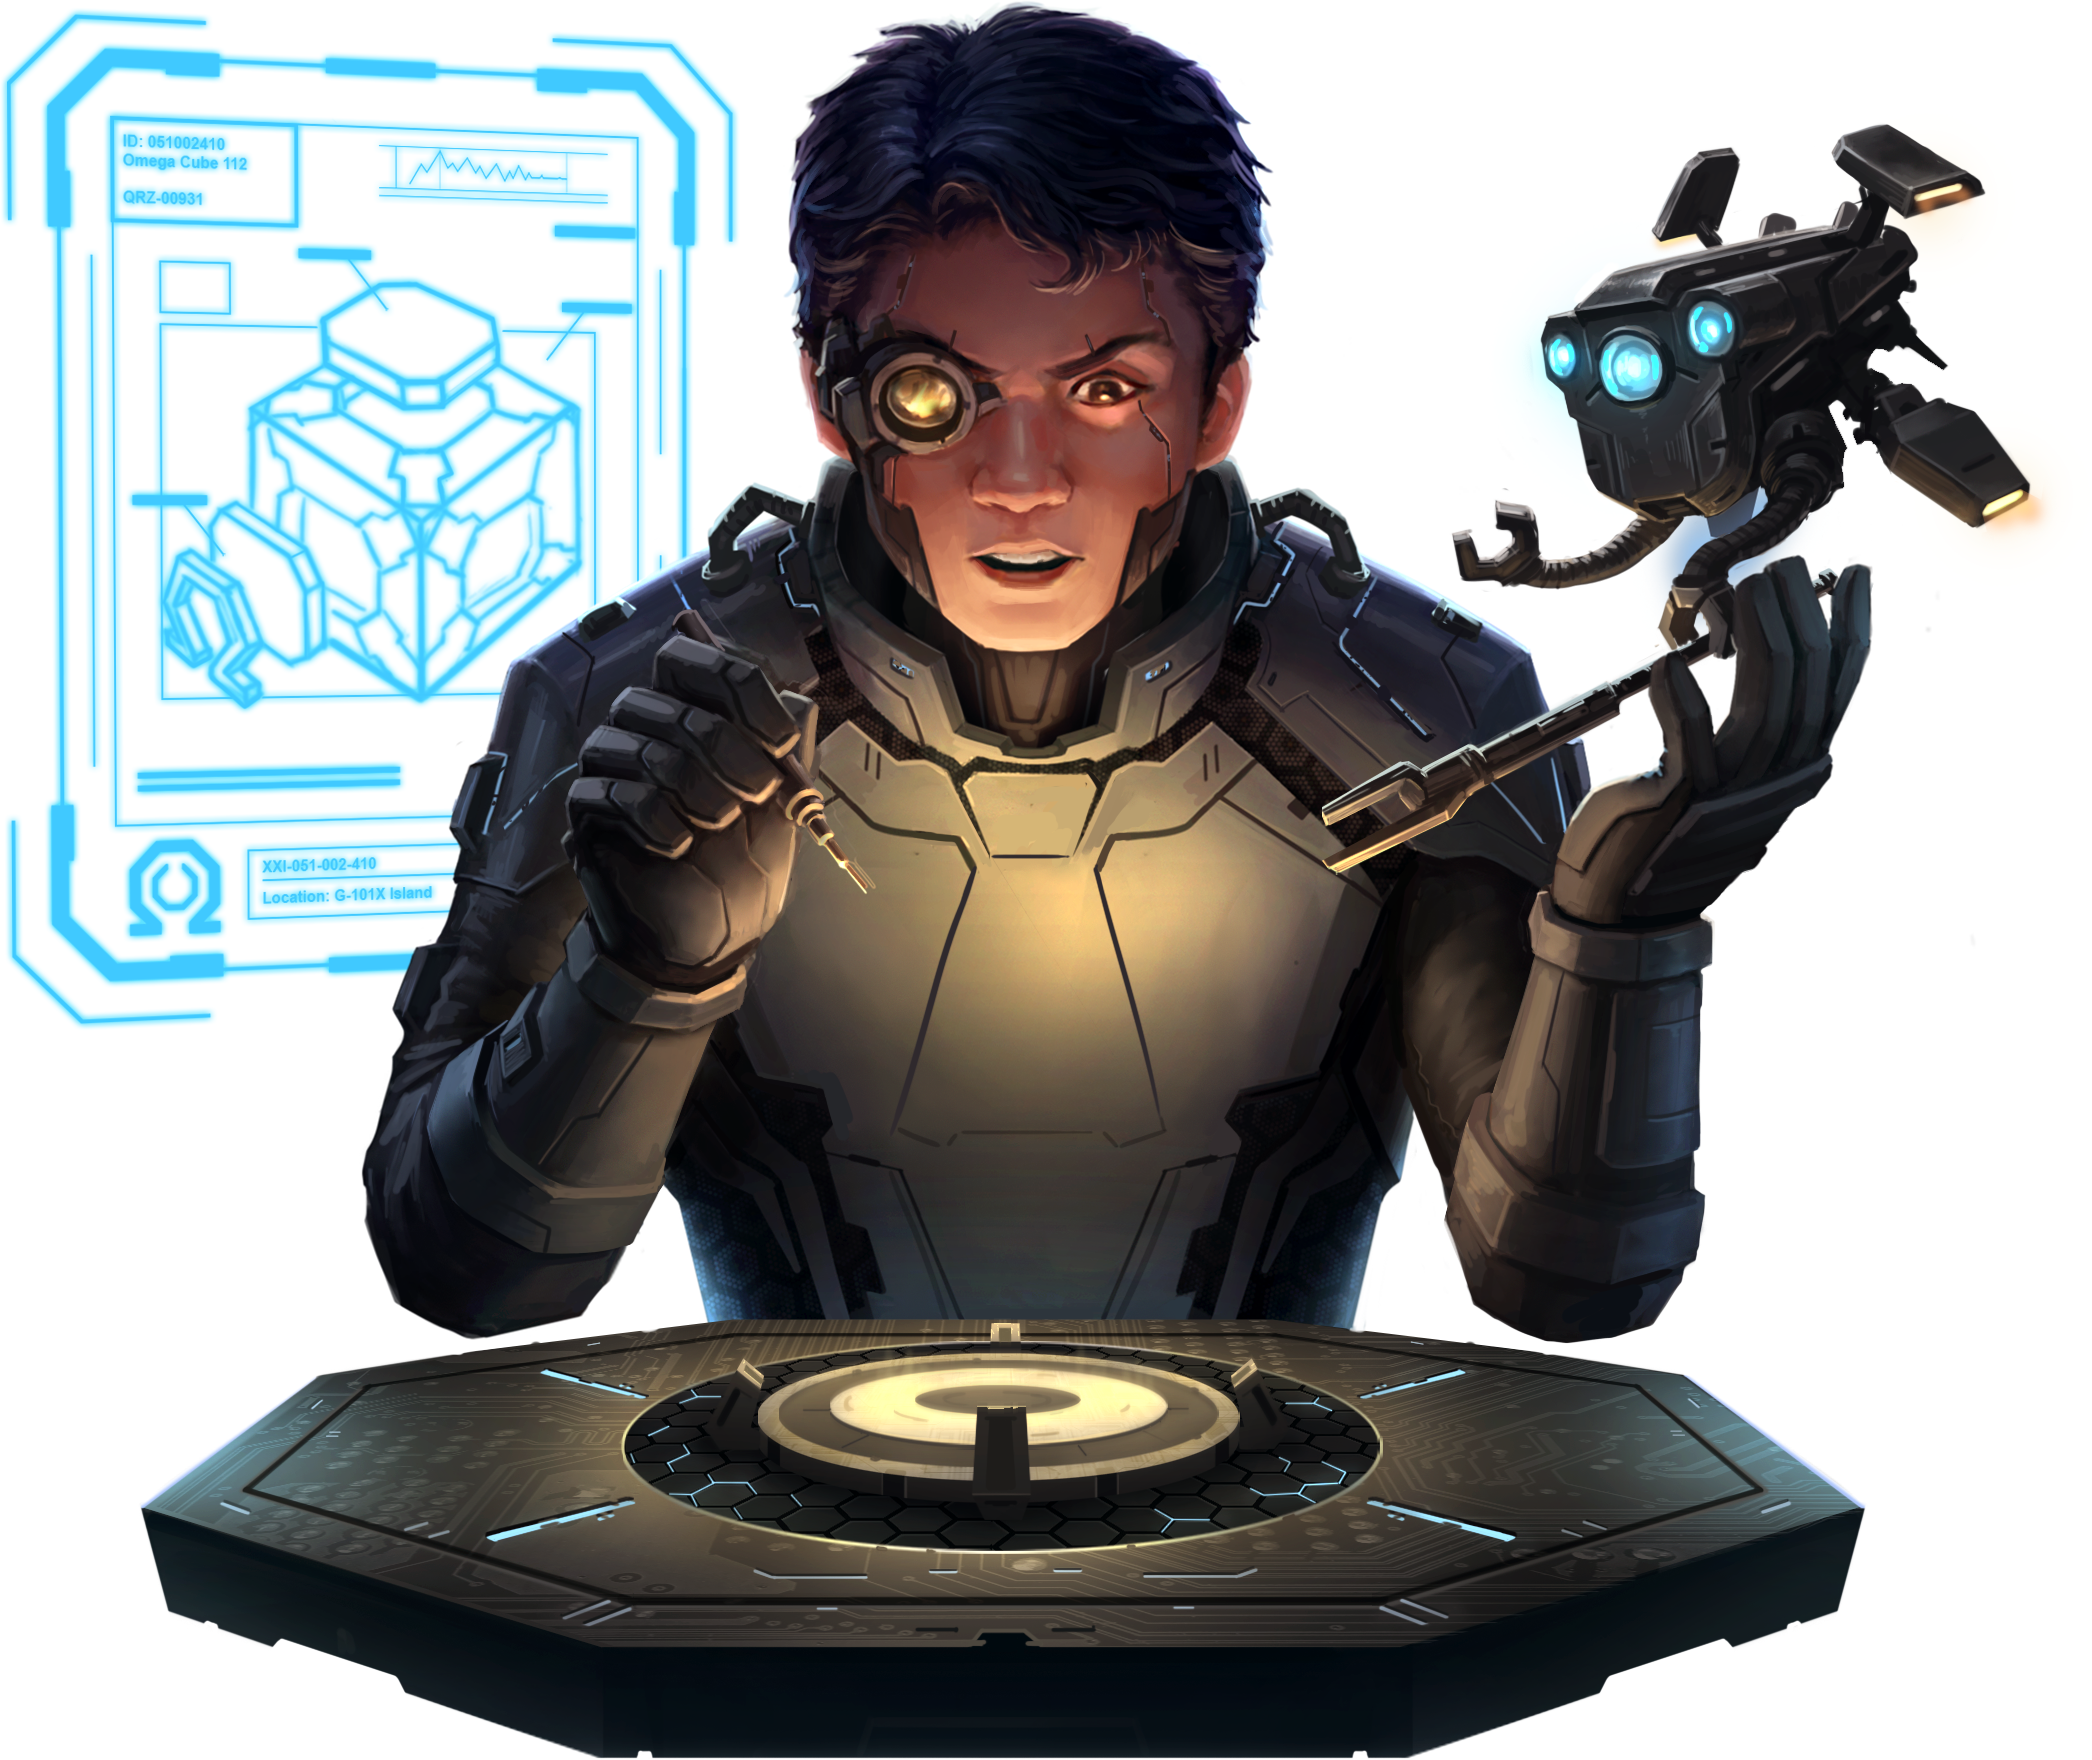
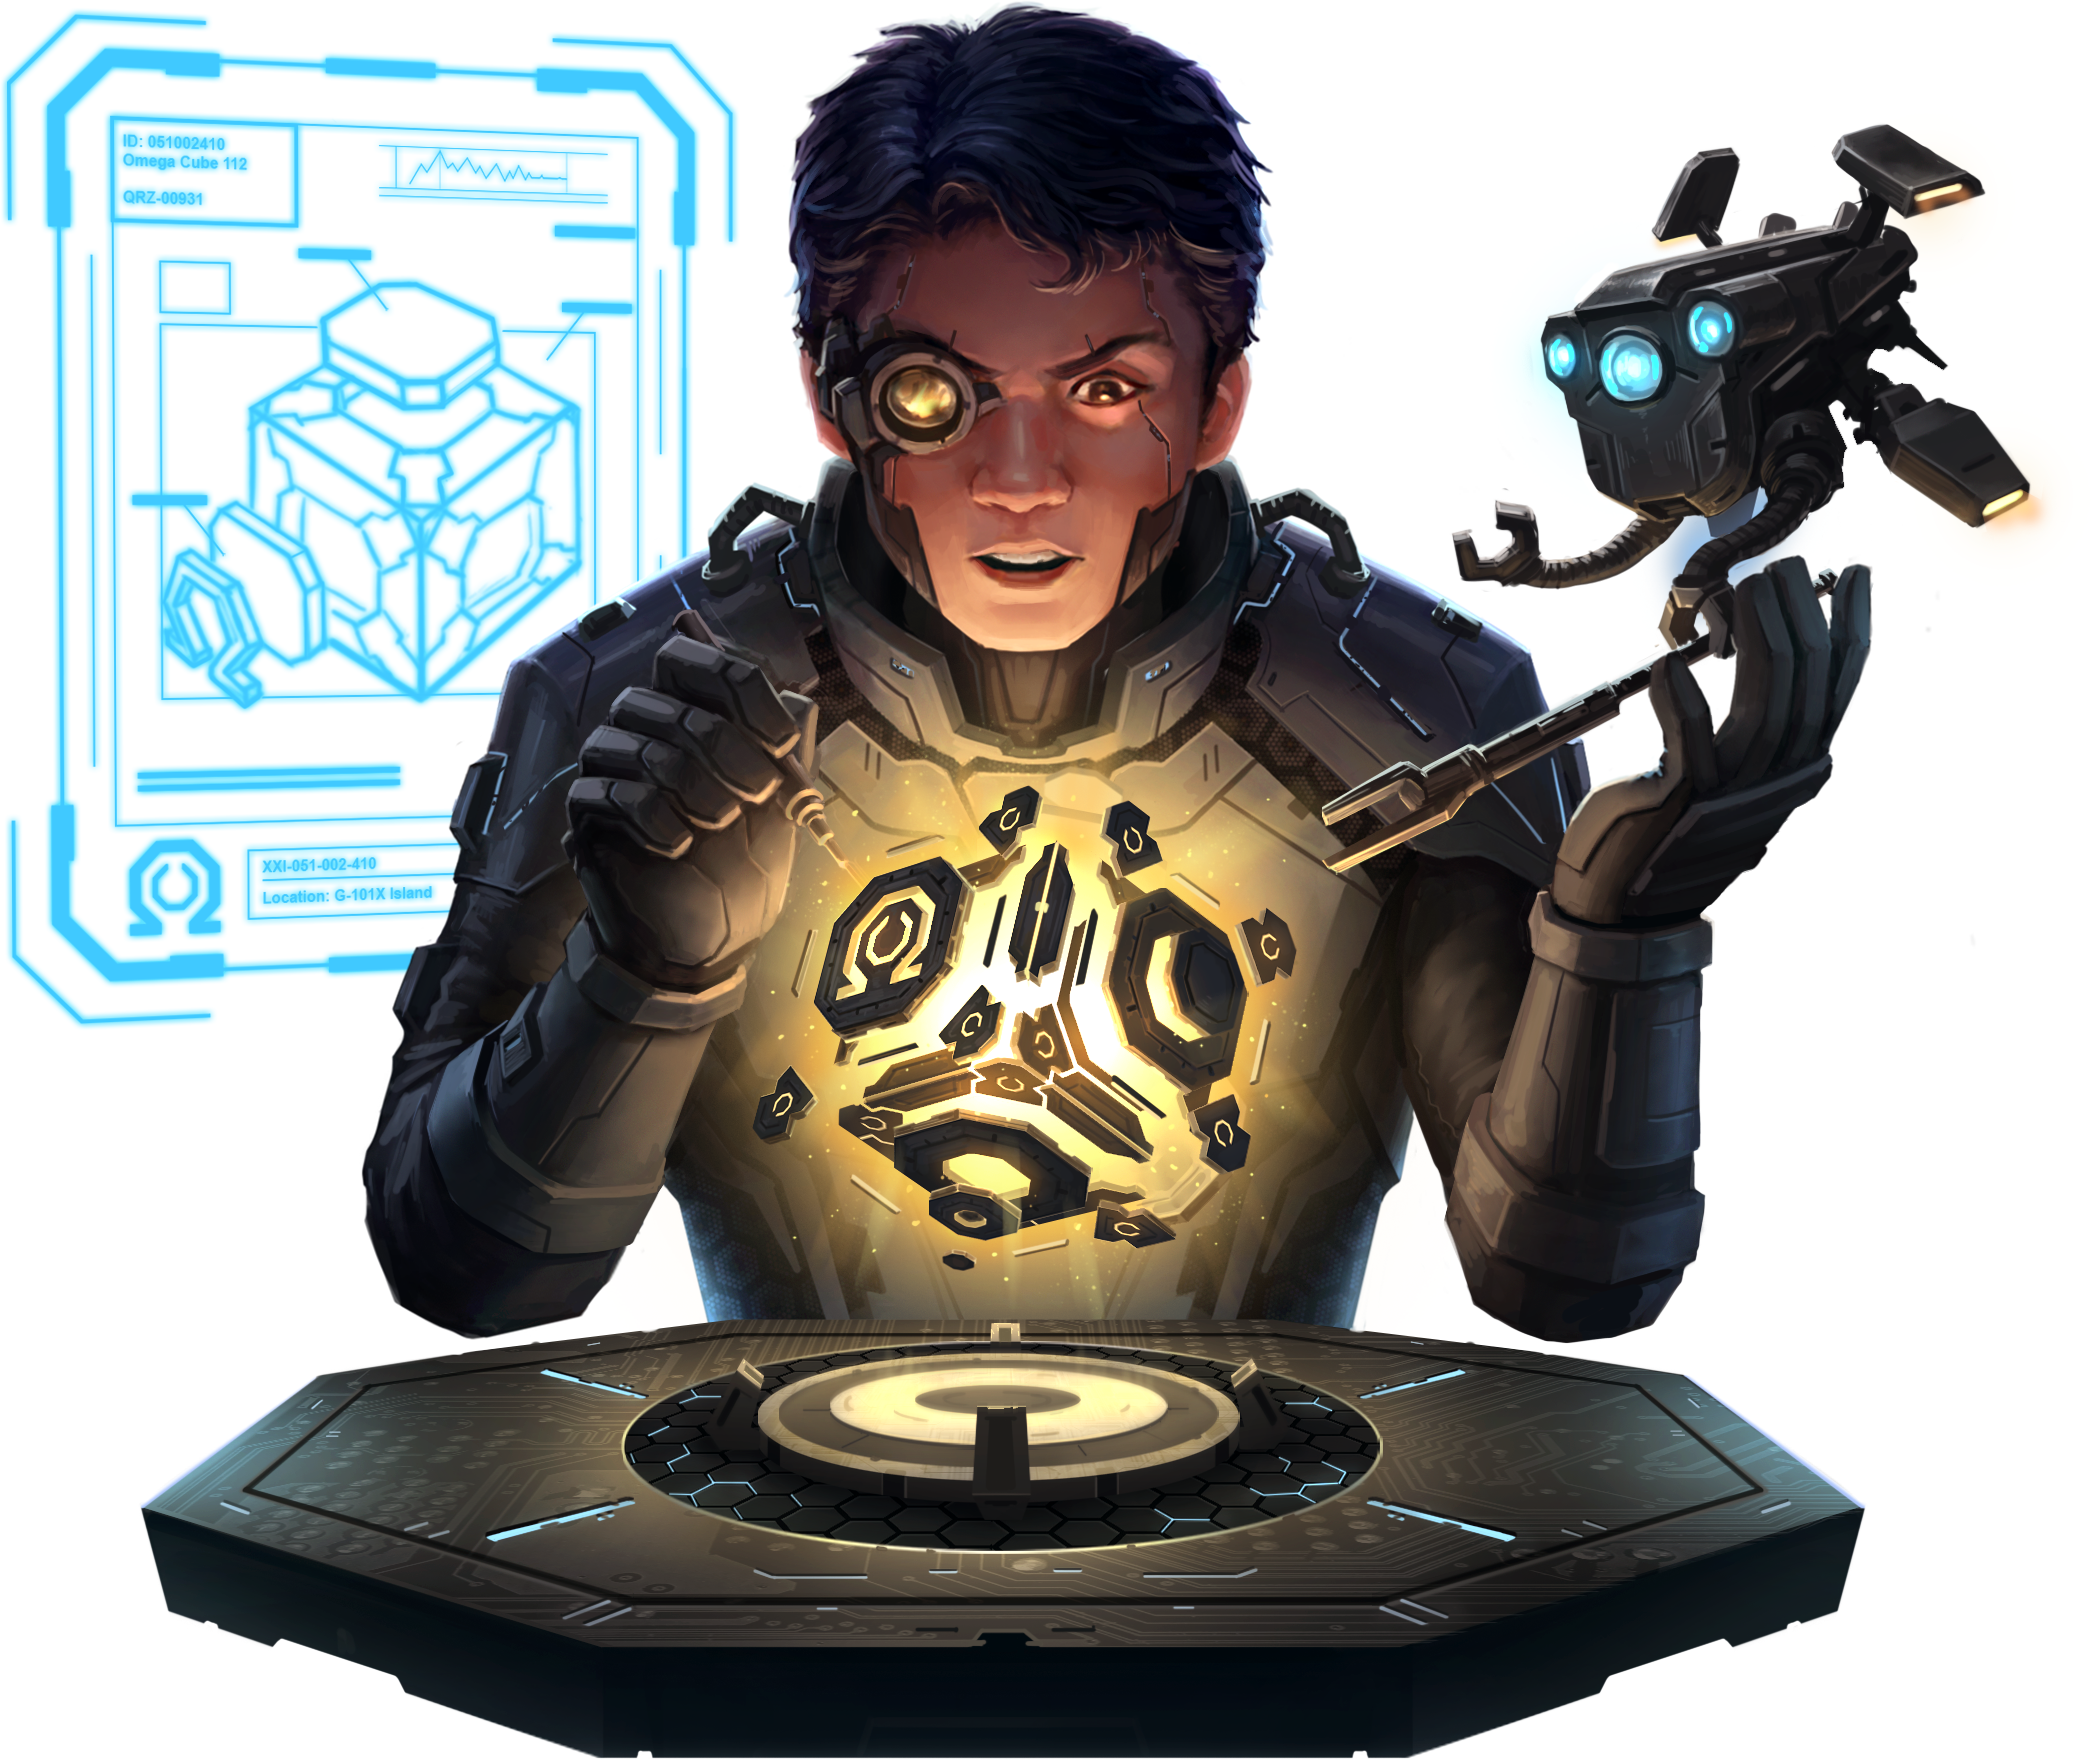
Finish layout of the hero

Changed region(s): [[0.3107, 0.375, 0.6836, 0.75]]

diff --git a/src/components/homepage/Hero/index.tsx b/src/components/homepage/Hero/index.tsx
@@ -1,0 +1,82 @@
+import MarginBox from "atoms/MarginBox"
+import React from "react"
+import styled from "styled-components"
+import HeroImage from "./HeroImage"
+
+const Container = styled.div`
+  display: flex;
+  width: 100%;
+  height: 20rem;
+  margin-top: ${({ theme }) => theme.spaces[5]};
+  flex-direction: column;
+`
+
+const Box = styled.div`
+  height: inherit;
+  display: flex;
+  flex: 1;
+  align-items: center;
+  justify-content: center;
+`
+
+const DetailBox = styled(Box)`
+  position: relative;
+  top: -50px;
+  flex-direction: column;
+  align-items: flex-start;
+`
+
+const Header = styled.h1`
+  font-family: ${({ theme }) => theme.fonts.staatchiles};
+  margin: 0;
+  font-size: ${({ theme }) => theme.fontSizes[6]};
+  color: ${({ theme }) => theme.colors.blue};
+  text-transform: uppercase;
+`
+
+const SubHeader = styled.h2`
+  position: relative;
+  top: -8px;
+  font-family: ${({ theme }) => theme.fonts.staatchiles};
+  margin: 0;
+  font-size: ${({ theme }) => theme.fontSizes[2]};
+  color: ${({ theme }) => theme.colors.black};
+  text-transform: uppercase;
+`
+
+const Detail = styled.p`
+  margin-top: ${({ theme }) => theme.spaces[2]};
+  font-family: ${({ theme }) => theme.fonts.barlow};
+`
+
+const BlogContainer = styled.div`
+  position: relative;
+  top: -90px;
+  z-index: 1;
+  background-color: ${({ theme }) => theme.colors.gray};
+  min-height: 50rem;
+  width: 100%;
+`
+
+const Hero: React.FC = () => (
+  <Container>
+    <MarginBox>
+      <Box>
+        <HeroImage />
+      </Box>
+      <DetailBox>
+        <Header>Franrey Saycon</Header>
+        <SubHeader>Software engineer / Architect • Team Lead</SubHeader>
+        <Detail>
+          I just like writing and speaking about developing and 
+          architecting solutions. There&apos;s also some random stuff too.
+        </Detail>
+      </DetailBox>
+    </MarginBox>
+    <BlogContainer>
+      Lorem ipsum
+    </BlogContainer>
+  </Container>
+)
+
+export default Hero

diff --git a/src/components/homepage/Hero/HeroImage.tsx b/src/components/homepage/Hero/HeroImage.tsx
@@ -1,0 +1,12 @@
+import React from "react"
+import styled from "styled-components"
+
+const StyledImage = styled.img`
+  width: 25rem;
+`
+
+const HeroImage: React.FC = () => (
+  <StyledImage src="/hero.png" alt="fsaycon.dev hero image that shows a cyborg version of myself solving an advanced rubix cube" />
+)
+
+export default HeroImage

diff --git a/src/theme.ts b/src/theme.ts
@@ -10,10 +10,11 @@ const theme = {
       '1.333rem',
       '1.777rem',
       '2.369rem',
+      "3.052rem",
     ],
     colors: {
-      blue: '#336bb8',
-      violet: '#41328f',
+      blue: '#40C9FF',
+      gray: '#F3F3F3',
       green: '#33888f',
       purple: '#814d97',
       white: '#eeeeee',

diff --git a/src/components/homepage/index.tsx b/src/components/homepage/index.tsx
@@ -1,8 +1,12 @@
 import React from "react"
+import Hero from "./Hero"
 import NavBar from "./NavBar"
 
 const Homepage: React.FC = () => (
-  <NavBar />
+  <>
+    <NavBar />
+    <Hero />
+  </>
 )
 
 export default Homepage
